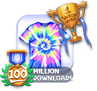
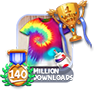
Added Candle Craft 3D <3

diff --git a/index.html b/index.html
@@ -110,9 +110,9 @@
                                 <div class="game-description">
                                 	Tie Dye summer clothes and beach accessories in this DIY game.
                                 	<br /><br />
-                                	#1 rank Worldwide with over 3 million downloads in under a week!<br />
-					50 million total downloads in less than 3 months!<br />
-					100 million total lifetime downloads!<br />
+                                	&bull; #1 rank Worldwide with over 3 million downloads in under a week!<br />
+                                    &bull; 50 million total downloads in less than 3 months!<br />
+                                    &bull; 140 million total lifetime downloads!<br />
 									<br /><br />
                                 </div>
                             </div>
@@ -124,6 +124,46 @@
                                     sizes="(max-width: 625px) 140px, 224px"></a>
                             <a class="store-link"
                                 href="https://play.google.com/store/apps/details?id=com.crazylabs.tie.dye.art"
+                                target="_blank"><img src="images/Badge_PlayStore.png"
+                                    srcset="images/Badge_PlayStore.png 252w, images/Badge_PlayStore_Small.png 140w"
+                                    sizes="(max-width: 625px) 140px, 252px"></a>
+                        </div>
+                    </div>
+                </div>
+                <div class="divider divider-transparent" style="padding-bottom: 90px;"></div>
+                <div class="game">
+                    <div class="game-ss-holder">
+                        <img class="game-ss" src="images/screenshot_CandleCraft.png"
+                            srcset="images/screenshot_CandleCraft.png 270w, images/screenshot_CandleCraftSmall.png 140w"
+                            sizes="(max-width: 625px) 140px, 270px">
+                        <img class="game-ss" src="images/screenshot_CandleCraft_2.png"
+                            srcset="images/screenshot_CandleCraft_2.png 270w, images/screenshot_CandleCraft_2Small.png 140w"
+                            sizes="(max-width: 625px) 140px, 270px">
+                    </div>
+                    <div class="game-info">
+                        <div class="game-row-1">
+                        	<div class="icon-column">
+                        		<img class="game-icon" src="images/icon_CandleCraft.png"
+	                                srcset="images/icon_CandleCraft.png 162w, images/icon_CandleCraftSmall.png 97w"
+	                                sizes="(max-width: 625px) 97px, 162px">
+                        	</div>
+                            <div>
+                                <div class="game-name">CANDLE CRAFT</div>
+                                <div class="game-description">
+                                	Create amazing candles and showcase your precision and creativity skills in this simulation game.
+                                	<br /><br />
+                                	#1 US in the first week of its release!<br />
+									<br /><br />
+                                </div>
+                            </div>
+                        </div>
+                        <div class="game-row-2">
+                            <a class="store-link" href="https://apps.apple.com/us/app/candle-craft-3d/id1585173714"
+                                target="_blank"><img src="images/Badge_AppStore.png"
+                                    srcset="images/Badge_AppStore.png 224w, images/Badge_AppStore_Small.png 140w"
+                                    sizes="(max-width: 625px) 140px, 224px"></a>
+                            <a class="store-link"
+                                href="https://play.google.com/store/apps/details?id=com.furiousavocado.candlecraft3d"
                                 target="_blank"><img src="images/Badge_PlayStore.png"
                                     srcset="images/Badge_PlayStore.png 252w, images/Badge_PlayStore_Small.png 140w"
                                     sizes="(max-width: 625px) 140px, 252px"></a>

diff --git a/css/styles.css b/css/styles.css
@@ -210,6 +210,7 @@ section {
   -webkit-box-shadow: -6px 6px 0px 0px rgba(0,0,0,0.18);
   -moz-box-shadow: -6px 6px 0px 0px rgba(0,0,0,0.18);
   box-shadow: -6px 6px 0px 0px rgba(0,0,0,0.18);
+  border-radius: 20px;
 }
 
 .game-ss:not(:last-child) {
@@ -323,6 +324,89 @@ section {
   font-weight: 300;
   padding-bottom: 0.3rem;
 }
+
+.divider-wrapper {
+  padding-bottom: 90px;
+}
+
+.divider {
+	position: relative;
+	margin-top: 90px;
+	height: 1px;
+}
+
+.divider-transparent:before {
+	content: "";
+	position: absolute;
+	top: 0;
+	left: 5%;
+	right: 5%;
+	width: 90%;
+	height: 1px;
+	background-image: linear-gradient(
+		to right,
+		transparent,
+		rgb(48, 49, 51),
+		transparent
+	);
+}
+
+.divider-arrow-down:after {
+	content: "";
+	position: absolute;
+	z-index: 1;
+	top: -7px;
+	left: calc(50% - 7px);
+	width: 14px;
+	height: 14px;
+	transform: rotate(45deg);
+	background-color: white;
+	border-bottom: 1px solid rgb(48, 49, 51);
+	border-right: 1px solid rgb(48, 49, 51);
+}
+
+.divider-tab-down:after {
+	content: "";
+	position: absolute;
+	z-index: 1;
+	top: 0;
+	left: calc(50% - 10px);
+	width: 20px;
+	height: 14px;
+	background-color: white;
+	border-bottom: 1px solid rgb(48, 49, 51);
+	border-left: 1px solid rgb(48, 49, 51);
+	border-right: 1px solid rgb(48, 49, 51);
+	border-radius: 0 0 8px 8px;
+}
+
+.divider-stopper:after {
+	content: "";
+	position: absolute;
+	z-index: 1;
+	top: -6px;
+	left: calc(50% - 7px);
+	width: 14px;
+	height: 12px;
+	background-color: white;
+	border-left: 1px solid rgb(48, 49, 51);
+	border-right: 1px solid rgb(48, 49, 51);
+}
+
+.divider-dot:after {
+	content: "";
+	position: absolute;
+	z-index: 1;
+	top: -9px;
+	left: calc(50% - 9px);
+	width: 18px;
+	height: 18px;
+	background-color: goldenrod;
+	border: 1px solid rgb(48, 49, 51);
+	border-radius: 50%;
+	box-shadow: inset 0 0 0 2px white, 0 0 0 4px white;
+}
+
 
 @media screen and (max-width: 768px) {
 
@@ -457,7 +541,6 @@ section {
     font-weight: 300;
     padding-bottom: 0.2rem;
   }
-
 }
 
 @media screen and (max-width: 450px) {
